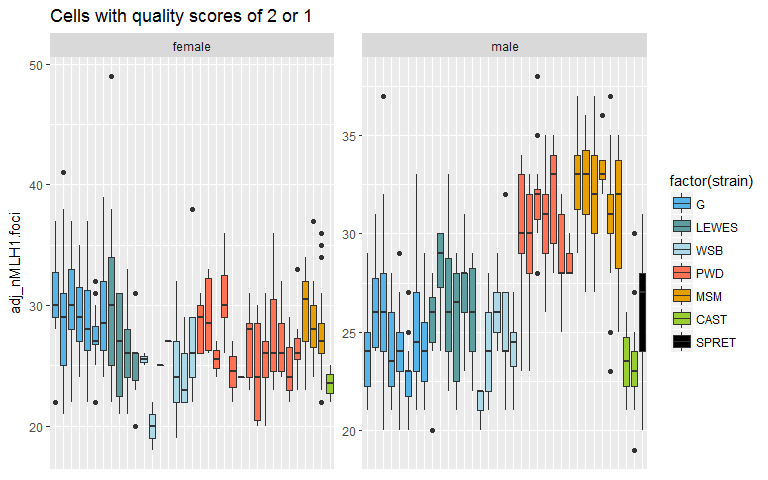
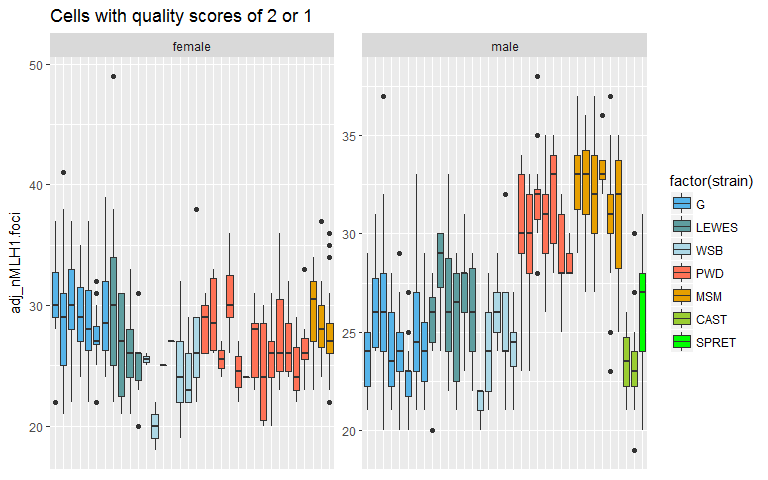
some updates to Rmd, removed fake CAST female

diff --git a/rmd_report.md b/rmd_report.md
@@ -30,10 +30,7 @@ MLH1_data <- with(MLH1_data, MLH1_data[order(sex, strain),])
 # sort your dataframe, by the focal categories
 #MLH1_data$mouse <- factor(MLH1_data$mouse, levels=unique(MLH1_data$mouse))
 
-#Add fake CAST female data
-last_row <-data.frame(Batch = c("100", "100"), X= c("",""), Original.Name=c("12dec18_20dec20_CAST_f1_sp1_12_1_rev.tif", "12dec18_20dec20_CAST_f1_sp1_12_2_rev.tif"), Random.Name = c("1234567.tif","123456789.tif"), quality=c(1,1),nMLH1.foci =c(25,22), XY.paired =c("no","no"), REDO.crop =c("no","no"),n =c(20,20), achiasmate=c(0,0),asynased=c(0,0),notes=c("",""),category = c("CAST female","CAST female"), strain= c("CAST","CAST"), sex=c("female","female"),adj_nMLH1.foci=c(25,22),mouse=c("20dec20_CAST_f1","20dec20_CAST_f1") )
 
-MLH1_data <- rbind(MLH1_data, last_row)
 
 #count the non-quality measures,  #remove non qualit
 #length(MLH1_data[ !(is.na(MLH1_data$quality) | MLH1_data$quality==""), ] )  #15 rows with out quality scores, remove.
@@ -51,7 +48,7 @@ MLH1\_data &lt;- MLH1\_data %&gt;% arrange(category) %&gt;% mutate(Original.Name
 
 #### Initial Patterns from MLH1 distributions
 
-<img src="rmd_report_files/figure-markdown_github-ascii_identifiers/first boxplots-1.png" style="display: block; margin: auto;" />
+<img src="rmd_report_files/figure-markdown_github-ascii_identifiers/first boxplots-1.png" style="display: block; margin: auto;" /><img src="rmd_report_files/figure-markdown_github-ascii_identifiers/first boxplots-2.png" style="display: block; margin: auto;" />
 
 After taking the data from 2 highest cell quality, some but not all mouse means converge.
 
